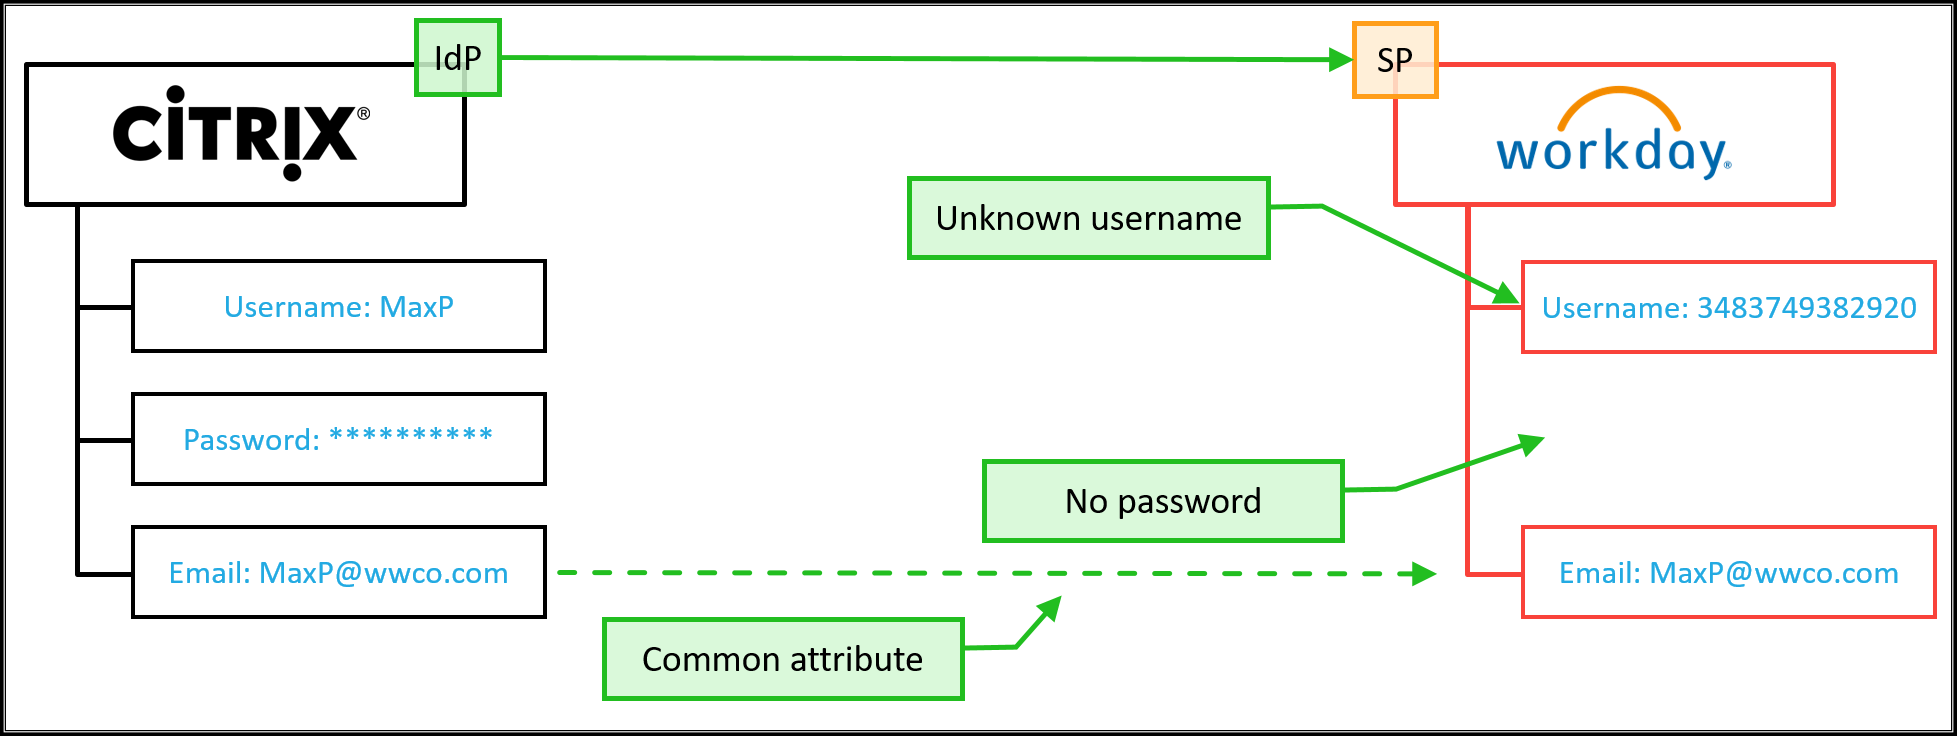
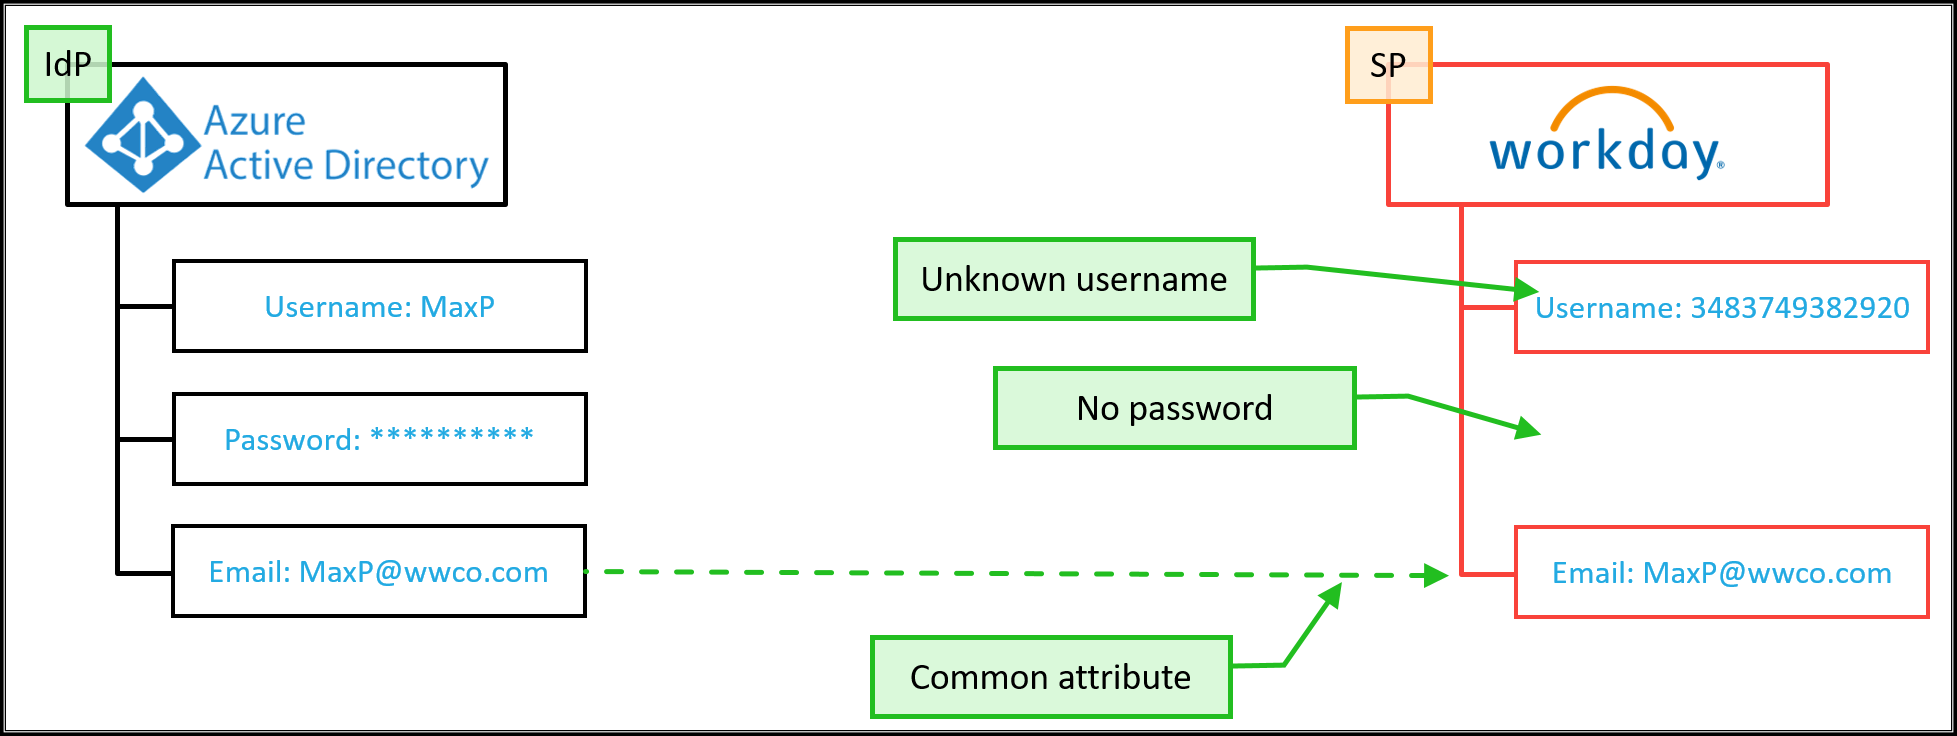
updates to saas

diff --git a/en-us/tech-zone/learn/tech-briefs/workspace-sso.md b/en-us/tech-zone/learn/tech-briefs/workspace-sso.md
@@ -63,24 +63,34 @@ From a Citrix Workspace perspective, a SaaS application is a browser-based appli
 
 To achieve single sign-on to a SaaS application, Citrix Workspace utilizes industry standard SAML-based authentication.
 
-With SAML, there are typically three main entities:
+SAML-based authentication typically focuses on three main entities:
 
-1.  Identity Provider: the entity that proves the user’s primary identity (Citrix Workspace)
-1.  Service Provider: the entity that delivers a service (SaaS app) and contains a secondary identity
-1.  Assertion: a package of data that indicates the user was authenticated (XML)
+1.  Identity Provider: the entity that proves the user’s primary identity (Active Directory, Azure Active Directory, Okta, and so on)
+2.  Service Provider: the entity that delivers a service (SaaS app) and contains a secondary identity
+3.  Assertion: a package of data that indicates the user was authenticated (XML)
 
 SAML-based authentication works by associating two different user accounts (primary and secondary) with common attribute(s), typically a user principal name (UPN) or email address.
 
 [![SAML Overview](/en-us/tech-zone/learn/media/tech-briefs_workspace-sso_saml-overview.png)](/en-us/tech-zone/learn/media/tech-briefs_workspace-sso_saml-overview.png)
 
-***Note**: This process supports IdP chaining, discussed in a future section.*
-
-The user identity, consisting of user names and passwords, can be different between the primary identity from the identity provider and secondary identity from the service provider.
+The user identity can be different between the primary identity from the identity provider and secondary identity from the service provider.
 
 With single sign-on, the user does not need to know their secondary identity’s user
 name or password. In addition, many SaaS applications have the ability to disable the password (and direct password access) from user accounts when authentication uses SAML. This forces user authentication to always use the primary identity from the identity provider and not the secondary identity from the service provider.
 
-For SAML authentication to work, the identity provider associates the request with a SAML specific logon URL for each SaaS application. This URL receives the user assertion. When the service provider receives the assertion, it must validate the assertion against the entity that generated the assertion, which is the identity provider’s SAML issuer URL.
+Citrix Workspace adds a fourth component to the SAML process
+
+4.  Identity Broker: the entity that links multiple identity providers to multiple service providers (Citrix Workspace)
+
+[![Brokering Overview](/en-us/tech-zone/learn/media/tech-briefs_workspace-sso_saml-broker-overview.png)](/en-us/tech-zone/learn/media/tech-briefs_workspace-sso_saml-broker-overview.png)
+
+Citrix Workspace takes claims about the user’s primary identity and translates them to secondary identities.
+
+Adding an identity broker (IdB) into the SAML authentication flow still requires a common attribute linking the user’s primary identity (IdP) to the secondary identity (SP).
+
+[![Brokering Overview](/en-us/tech-zone/learn/media/tech-briefs_workspace-sso_saml-broker-detail.png)](/en-us/tech-zone/learn/media/tech-briefs_workspace-sso_saml-broker-detail.png)
+
+For SAML authentication to work, the identity broker associates the request with a SAML specific logon URL for each SaaS application. This URL receives the user assertion. When the service provider receives the assertion, it must validate the assertion against the entity that generated the assertion, which is the identity broker's SAML issuer URL.
 
 [![SAML URLs](/en-us/tech-zone/learn/media/tech-briefs_workspace-sso_saml-urls.png)](/en-us/tech-zone/learn/media/tech-briefs_workspace-sso_saml-urls.png)
 
@@ -94,11 +104,12 @@ SSO to SaaS apps within Citrix Workspace helps solve a few user and admin experi
 1.  Users do not have to create complex passwords for each secondary identity
 1.  Users do not have to setup/configure MFA keys/tokens for each secondary identity
 1.  Admins can disable access to all SaaS apps by disabling the user’s primary identity
+1.  Admins can base the user’s primary identity on one of the growing list of supported identity providers
 
 To keep access secure, organizations must
 
 1.  Implement strong authentication policies for the primary Workspace identity
-1.  Disable direct access to SaaS apps with the secondary identity
+2.  Disable direct access to SaaS apps with the secondary identity
 
 ## SSO: Web Apps (section coming soon)
 
